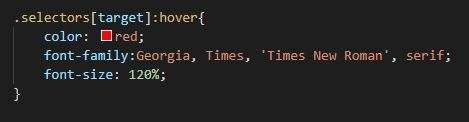
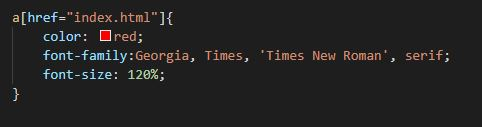
Final fixes hopefully

diff --git a/index.html b/index.html
@@ -109,7 +109,6 @@
         </p>
 
         <p class="selectors">
-            <a target="_blank" href="simpleselect.JPG"></a>
             <span>Simple selectors</span> - Simple selectors get their name from the fact that they operate simply
             by selecting what the element or class is, for example, a paragraph or header. For example, the "Cascading Style Sheets"
             title of this page uses a simple CSS selector to make the element animated.<br>
@@ -135,7 +134,6 @@
         
 
         <p class="selectors">
-            <a target="_blank" href="pseudoclass.JPG"></a>
             <span>Pseudo-Class selectors</span> - Pseudo-Class selectors refer to a state of a class which is different to the usual. For example,
             This could be when a mouse is hovered over a specific element or whether a link has been visited or not. In this website, I have used
             Pseudo-Class selectors for multiple elements and states, but the best example is that of the box which expands when you hover over it. <br>
@@ -161,10 +159,9 @@
         
         
         <p class="selectors">
-         <a target="_blank" href="attribute.JPG"></a>
             <span>Attribute selectors</span> - Attribute selectors are quick useful as they allow the designer to select all of the elements in a HTML document with the same
-            properties. This is useful for both stylisation and quickly changing a lot of different elements. In this website, I have used an attribute selector to make every other
-            selector explanation in this segment change font and colour for stylisation when they are hovered over, which uses both pseudo-class and attribute selectors.
+            properties. This is useful for both stylisation and quickly changing a lot of different elements. In this website, I have used an attribute selector to make every element
+            which references the index page red, as it is the main page so I have highlighted it.
             <div class="gallery" style=width:469px;>
                 <a target="_blank" href="attribute.JPG">
                     <img src="attribute.JPG" alt="AttributeSelectorExample" width="469" height="122">

diff --git a/mainstyle.css b/mainstyle.css
@@ -83,7 +83,7 @@ h4 ~ .gallery {
     font-size: 150%;
 }
 
-.selectors[target]:hover{
+a[href="index.html"]{
     color: red;
     font-family:Georgia, Times, 'Times New Roman', serif;
     font-size: 120%;
